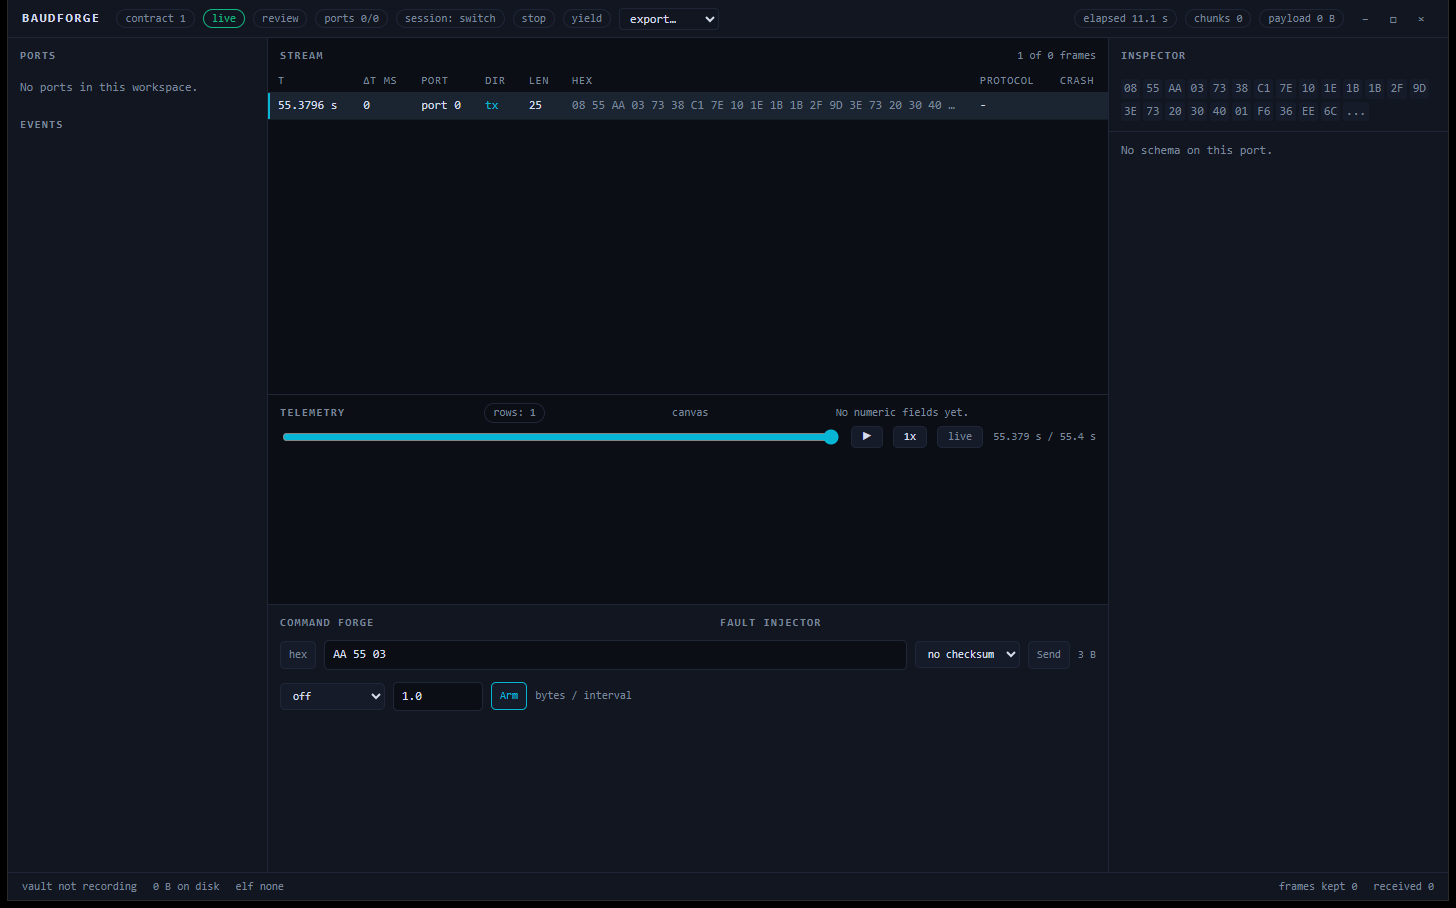
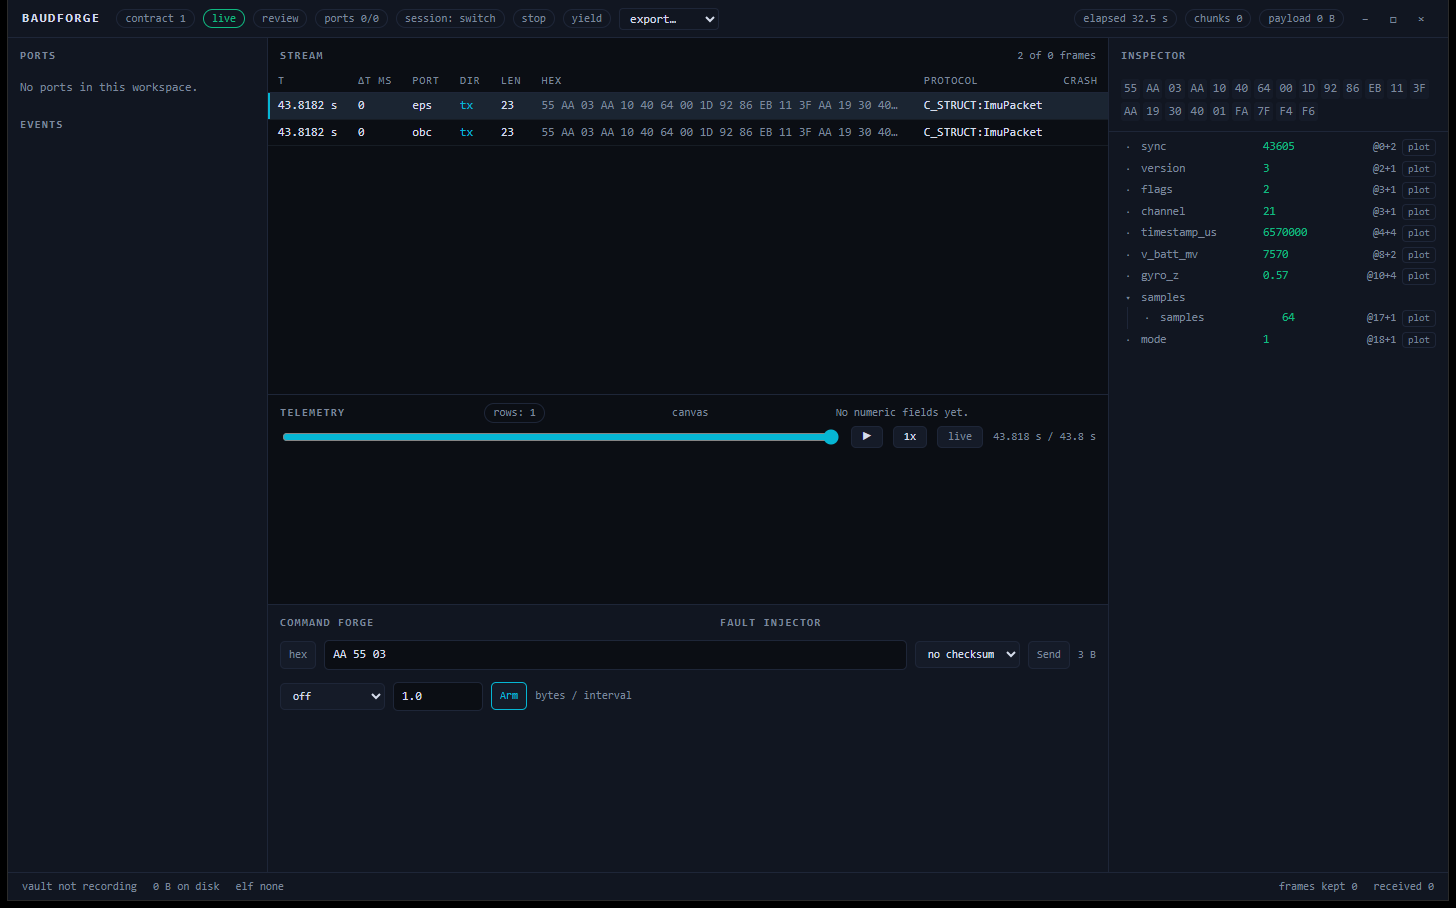
Let a session carry its workspace, so a review decodes into fields
Review mode read a vault as raw records because the vault does not describe its own ports: the
header has a port-table offset that nothing writes. Until that table exists, the workspace
travels beside the capture.

A session started from the window copies its .bforge.toml to <vault stem>.bforge.toml, and a
review reads that copy when it is there. The reviewed rows then carry their port ids and their
schema: 43.818 s of the demo decodes as two eps and obc rows of C_STRUCT:ImuPacket, instead of
port 0 with no fields. Without a sidecar the review still reads, as raw records, which is what a
capture from before this stage does.

The command line also stopped confusing a vault for a workspace: a .bflog path on its own is a
capture to review, --vault beside a workspace is where that session records, and --review says
so explicitly.

Specs 0046. 290 tests. Recorded: bforge record writes no sidecar (D-113), and the header's
port_table_offset is still a field nobody writes.

diff --git a/crates/bforge-gui/src-tauri/src/main.rs b/crates/bforge-gui/src-tauri/src/main.rs
@@ -250,6 +250,13 @@ fn start(app: &tauri::AppHandle, path: &Path, vault: Option<PathBuf>) -> Result<
         }
     });
 
+    // The vault cannot describe itself yet, so the workspace is copied beside it. Review
+    // reads that copy, which is what makes a reviewed capture decode (D-111).
+    let sidecar = vault.with_extension("bforge.toml");
+    if sidecar != path {
+        let _ = std::fs::copy(path, &sidecar);
+    }
+
     *engine.running.lock().unwrap() = Some(Running {
         port,
         stop,
@@ -327,6 +334,17 @@ fn start_review(app: tauri::AppHandle, path: String) -> Result<String, String> {
     let vault = PathBuf::from(&path);
     bforge_storage::LogReader::open(&vault).map_err(|error| format!("{}: {error}", path))?;
 
+    // A workspace copied beside the vault gives the review its port names and schema. A
+    // vault without one still reads, as raw records.
+    let sidecar = vault.with_extension("bforge.toml");
+    let config = std::fs::read_to_string(&sidecar)
+        .ok()
+        .and_then(|text| toml::from_str::<ProjectConfig>(&text).ok());
+    let ports = config
+        .as_ref()
+        .map(|config| config.ports.clone())
+        .unwrap_or_default();
+
     let engine = app.state::<Engine>();
     engine.stop();
 
@@ -343,7 +361,7 @@ fn start_review(app: tauri::AppHandle, path: String) -> Result<String, String> {
     };
     let server = server.with_vault(VaultSource {
         path: vault.clone(),
-        ports: Vec::new(),
+        ports,
     });
     let stop = server.stop_handle();
     std::thread::spawn(move || {
@@ -505,10 +523,16 @@ fn main() {
                     workspace = Some(PathBuf::from(argument));
                 }
             }
-            // `--review` with a vault, or a vault that is not a workspace, opens read-only.
-            let reviewing = vault_arg
-                .clone()
-                .filter(|path| review || !path.extension().is_some_and(|kind| kind == "toml"));
+            // A vault on its own is a capture to review; `--vault` beside a workspace is
+            // where that session records.
+            let reviewing = match (vault_arg.clone(), workspace.clone()) {
+                (Some(vault), None) => Some(vault),
+                (Some(vault), Some(_)) if review => Some(vault),
+                (None, Some(path)) if path.extension().is_some_and(|kind| kind == "bflog") => {
+                    Some(path)
+                }
+                _ => None,
+            };
             if let Some(vault) = reviewing {
                 let handle = app.handle().clone();
                 match start_review(handle, vault.display().to_string()) {

diff --git a/DEFERRED.md b/DEFERRED.md
@@ -104,8 +104,8 @@ The plan lives in [IMPLEMENTATION.md](IMPLEMENTATION.md), progress in
 | D-64 | Sends are hex bytes, not typed fields | Band 5 in the UI guide is field pills with a live encoded preview: pick `battery_mv`, type 7400, see the bytes. That needs an encoder that walks the dissector IR in reverse, including bitfields and CRCs, and a schema that says how to lay a frame out. Hex is honest and works today. | An encoder slice over the same IR the decoder reads, with fixtures that round-trip | A person must assemble frame bytes by hand and add their own checksum. |
 | D-65 | Sends are not in the UI contract | A send is an action, not session state, and the workbench keeps its own log of the last six. A second client cannot see what the first sent, and a vault does not record it. | A `sent` event in the contract, plus a vault record type for transmit chunks | Two people watching one session cannot see each other's writes. |
 | D-104 | State lanes are not captured | A trace whose values are whole and few draws as a lane instead of a line (spec 0039). Reaching that needs a discrete field selected, and the capture cannot click a control; the code path is type-checked and reviewed, not photographed. | A UI harness, or a `?plot=mode` capture in the shell | The lane drawing could regress without anyone noticing. |
+| D-113 | `bforge record` writes no sidecar | The shell copies the workspace beside the vault and a review uses it. The command-line recorder does not, so a capture made in CI and reviewed later has no schema. | The same copy in `record` | A CLI capture reviews as raw records. |
 | D-112 | Protobuf fields have no names | The wire carries field numbers and wire types, not names, so a protobuf row reads `field_7`. Applying a `.proto` needs a parser for it and a workspace setting that points at the file. | The first request to name protobuf fields | A capture shows the shape of a message but not the meaning of a field. |
-| D-111 | A reviewed vault has no schema | Review mode reads records as rows because the vault does not store the workspace configuration. Decoding a reviewed capture needs a sidecar or the original `.bforge.toml` beside it. | A sidecar written at record time | A review shows bytes, not fields. |
 | D-109 | Parquet is refused by name | FR-STO-02 lists Parquet. It needs a columnar writer and a compression codec as dependencies, and nobody has asked for the format; CSV and JSON Lines carry the same columns. | A request for Parquet from an analysis pipeline | A script that asks for Parquet gets an error that names the alternatives. |
 | D-107 | Rows are assigned in trace order | Stacked rows come out in the order traces were added, not grouped by unit or magnitude, and a row cannot be dragged to a different position or resized. | A row model the person can edit, once someone asks for it | Two traces of the same unit can end up in different rows. |
 | D-60 | The served page is a placeholder, not the six-band workbench | The page exists to prove that the contract reaches a screen with live numbers. The UI guide describes bands, panels and interaction that a single HTML file cannot carry honestly. | The SolidJS frontend from `specs/UI-UX-Guide.md` | The GUI surface matrix stays unmet for the bands; the session, ports and events are visible. |
@@ -146,6 +146,7 @@ The plan lives in [IMPLEMENTATION.md](IMPLEMENTATION.md), progress in
 | — | Vault picker and read-only review mode (was D-78) | `specs/0046` |
 | — | Schema-less protobuf decoding, the protobuf half of D-56 | `specs/0047` |
 | — | Sequential cursor for a whole-file pass, twice the export speed (was D-110) | `specs/0044` |
+| — | A session copies its workspace beside the vault, so a review decodes (was D-111) | `specs/0046` |
 | — | TCP, UDP and a device simulator in the config (F1.2.7) | `specs/0016` |
 | — | CCSDS with PUS, CSP and Modbus RTU (most of F3.4) | `specs/0017` |
 | — | The UI contract over loopback HTTP with server-sent events (F1.7.2) | `specs/0018` |

diff --git a/specs/0046-vault-picker.md b/specs/0046-vault-picker.md
@@ -23,20 +23,35 @@ Two actions on the picker page, and a read-only way to run the engine over a fin
    rather than the three-second poll, which would land at a stale end.
 4. With no workspace there is no schema, so each record becomes one row: port `port N`, the
    bytes as hex, the direction, no fields. Nothing is guessed about framing.
-5. `bforge-gui --review --vault file.bflog` does the same from a command line. A path that is
-   not a `.toml` is treated as a vault, so a `.bflog` on the command line opens for review.
+5. `bforge-gui --review --vault file.bflog` does the same from a command line, and
+   `bforge-gui capture.bflog` reviews that file: a vault alone is a capture, `--vault` beside a
+   workspace is where that session records.
+6. **A session copies its workspace beside the vault** as `<vault stem>.bforge.toml`, and a
+   review reads that copy when it exists. With it the capture decodes: port ids, schema, fields.
+   Without it the review falls back to raw records.
 
 ## Measured
 
 Captured from the window with `--review --vault bforge-gui-1793520598.bflog`:
 
+Without a sidecar, from a vault recorded before this stage:
+
 ```text
-mode review · ports 0/0 · 55.379 s / 55.4 s · vault not recording · 0 B on disk
+mode review · 55.379 s / 55.4 s · vault not recording
 55.3796 s   port 0   tx   25   08 55 AA 03 73 38 C1 7E 10 1E 1B 18 2F 9D ...
+inspector: No schema on this port.
 ```
 
-The scrubber sits at the end of a 55.4 s recording, the row is the last record, and the
-inspector says `No schema on this port.` rather than inventing fields.
+With a sidecar, from a vault recorded after it:
+
+```text
+mode review · 43.818 s / 43.8 s
+43.8182 s   eps   tx   23   55 AA 03 AA 10 40 64 00 1D 92 86 EB 11 3F AA 19 30 40 ...   C_STRUCT:ImuPacket
+43.8182 s   obc   tx   23   55 AA 03 AA 10 40 64 00 1D 92 86 EB 11 3F AA 19 30 40 ...   C_STRUCT:ImuPacket
+```
+
+The scrubber sits at the end of the recording, the rows carry their port ids, and the pack
+decodes them, because the workspace travelled with the vault.
 
 ## Test
 
@@ -50,8 +65,10 @@ cargo test -p bforge-core --test serve
 
 ## Limits, recorded
 
-- A review shows undecoded rows. Pairing a vault with its workspace would decode it, and the
-  vault does not store the configuration, so that needs a sidecar file (not built).
+- The sidecar is a copy of the workspace file, so a review of a capture whose `.bforge.toml`
+  has since changed decodes with the old copy. That is the point, but it means editing the
+  workspace does not change how an old capture reads.
+- `bforge record` on the command line does not write a sidecar yet (D-113).
 - The picker's chosen vault applies to sessions started from that page; there is no per-workspace
   memory of where its captures go.
 - The port strip says "No ports in this workspace" in review, which is true but reads oddly.

diff --git a/NEXT.md b/NEXT.md
@@ -31,8 +31,8 @@ half the time, because a whole-file pass walks the file forward instead of seeki
 (D-110 closed).
 
 The vault picker and review mode are done too (spec 0046): the window opens a finished `.bflog`
-read-only and lands at its end. A reviewed capture shows bytes rather than fields, because the
-vault does not carry its workspace (D-111).
+read-only, lands at its end, and decodes it, because a session copies its workspace beside the
+vault (D-111 closed).
 
 Live transmit rows are done too (spec 0045): a forwarding bridge's writes appear as `tx` rows
 as they leave. A typed send from the forge does not, which is the small next step if anyone
